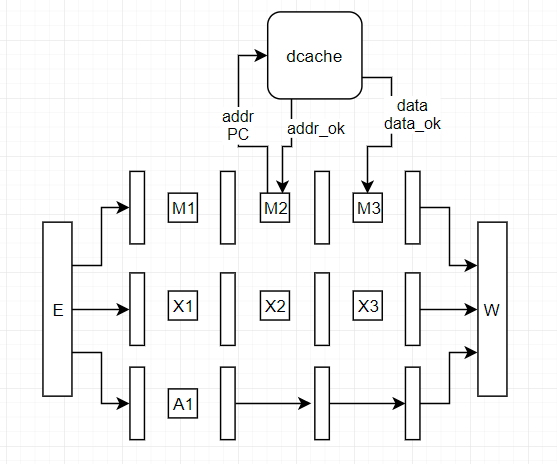
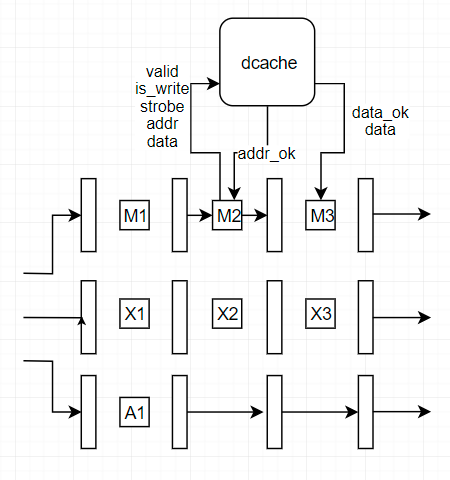
improve the interface

Changed region(s): [[0.0622, 0.0, 0.9644, 0.9655]]

diff --git a/docs/competition/CPU设计.md b/docs/competition/CPU设计.md
@@ -10,23 +10,23 @@
 
 ![CPU架构缩略图](资料图片/CPU架构缩略图.PNG)
 
-与Cache的交互只在取指和访存两个阶段。
+与Cache的交互只在取指和访存两个阶段。一下每个阶段都对应**时钟一个周期**
 
 1. 取指（1）：将计算好的PC发给ICache
 2. 取指（2）：获取ICache中的指令组和其它信息
 3. 译码：对指令进行译码，并对分支指令的地址进行计算
 4. 发射：往队列尾部插入指令组，在头部根据控制逻辑发射一条或两条指令
 5. 数据获取：通过寄存器堆和数据旁路获取数据
-6. 执行：用`FU`计算数据
-7. 访存（1）：向DCache发送访存请求，延迟取数据
-8. 访存（2）：获取DCache中的数据或其它信息，延迟计算
+6. 执行：在`FU`中计算数据
+7. 访存（1）：在`FU`中向DCache发送访存请求，延迟取数据
+8. 访存（2）：在`FU`获取DCache中的数据或其它信息，延迟计算
 9. 退休：将数据写回到寄存器堆
 
 
 
-### ==指令数据传输==
+### 指令数据传输
 
-- ICache传来的指令组要==8字节对齐==，也就是包含两条指令
+- ICache传来的指令组要8字节对齐，也就是包含两条指令
 - 接收到指令时，需要根据PC值来判断第一条指令是否有效，如果PC值只是4字节对齐而没有8字节对齐（如`bfc00004`），那么此时指令组第一条指令应该判定为无效
 - 当分支指令为8字节指令组的前四个字节的话（一条指令4个字节），此时延迟槽正好为后四个字节，不会出现问题，所以该指令组的分支预测正常进行
 - 当分支指令为指令组后四个字节的话，需要在下个周期把延迟槽取出来，也就是说该分支指令没有预测的必要，始终是顺序取，等到后面的延迟槽来了才应该真正开始分支预测
@@ -42,21 +42,22 @@
 - 取指分为两个阶段，第一个阶段向ICache发送地址，在第二个阶段接受指令，因为指令传来需要一定时间，所以只对传来的指令进行简单的处理和判断。
 - 第一个阶段发送的数据：指令地址PC、地址有效位`valid`
 - 以ICache返回的 `addr_ok` 作为是否接受到的标志，若未接收到，需继续发送数据，也就是把当前周期给stall（暂停）住，这个是用流水线控制逻辑实现的。
-- 根据当前的PC值，预测下一个PC值，并把是否是跳转指令、预测的分支指令类型、是否预测跳转以及跳转的地址传给后续的阶段来判断分支预测的正确性，并更新分支预测模块。
-- 第二个阶段传来的数据：指令组中的指令（==两条==）、指令组的有效位 `data_ok`、指令是否是分支指令`is_branch`（两位、需要ICache预解码）
-- 返回的指令组8字节对齐，包含两条指令
+- 根据当前的PC值，预测下一个PC值，并把是否是跳转指令、预测的分支指令类型、是否预测跳转以及跳转的地址传给后续的阶段来判断分支预测的正确性，以更新分支预测模块。
+- 第二个阶段传来的数据：指令组中的指令（两条）、指令组的有效位 `data_ok`、指令是否是分支指令`is_branch`（两位、需要ICache预解码）
+- ==同时当第二个阶段没有传来`data_ok`的话，且第二个阶段是有指令在等待请求返回的，也就是流水线寄存器中的`valid`为1（表明该阶段是有效的，而非`nop`之类的无效指令），此时需要stall住第二阶段来等待数据返回，由于第二阶段stall住了，所以如果第一阶段也是有效的地址请求即`valid`为1，此时也要跟着stall住。==
+- ==返回的指令组8字节对齐，包含两条指令，若PC请求仅为4字节对齐而不是8字节对齐，此时指令组第一条指令为无效指令，因为PC应该是从第二条指令开始取。==
 
 #### 译码
 
 - 判断指令的类型，以及源寄存器和目的寄存器的下标，放入到发射队列中
-- ==若分支指令取来了，但是延迟槽没有取来，则把分支指令的信息传给BB，等到延迟槽来的时候，把BB保存的分支指令的信息传给延迟槽。==
+- 若分支指令取来了，但是延迟槽没有取来，则把分支指令的信息传给BB，等到延迟槽来的时候，把BB保存的分支指令的信息传给延迟槽。
 
 #### 发射
 
-- ==两个写端口、两个读端口==的FIFO的双发循环队列，用head和tail下标的方式模拟循环队列。
+- 两个写端口、两个读端口的FIFO的双发循环队列，用head和tail下标的方式模拟循环队列。
 - 存放的数据：指令的地址、指令的各类操作数、是否为访存指令、是否为特权指令、是否为分支指令、是否预测跳转、预测跳转的地址
 - 以下不能同时发射两条指令的情况：
-- ==两条连续的除法指令：只有一个除法器（因为有两个乘法器，所以可以同时发射两条乘法指令，不过乘法器最好流水化）==
+- 两条连续的除法指令：只有一个除法器（因为有两个乘法器，所以可以同时发射两条乘法指令，不过乘法器最好流水化）
 - 访存指令：只有一个访存单元，而且DCache只有一个读写端口，没法同时处理两条访存指令
 - `CP0`、`TLB`等特权指令
 - 两条指令有数据相关：注意0号寄存器的假相关性（0号寄存器一直为零）
@@ -64,14 +65,14 @@
 
 #### 数据获取
 
-- 用两条指令的源寄存器下标获取源寄存器里的值，同时进行旁路（转发）从而获得所有的操作数，==因为可能会有延迟读操作，所以当前周期读到的可能无效，同时对于不可避免的指令相关需要暂停流水线。==
+- 用两条指令的源寄存器下标获取源寄存器里的值，同时进行旁路（转发）从而获得所有的操作数，因为可能会有延迟读操作，所以当前周期读到的可能无效，同时对于不可避免的指令相关需要暂停流水线。
 - 寄存器堆有四个读端口、两个写端口
 
 #### 执行和访存阶段
 
 ![FU架构缩略图](资料图片/FU架构缩略图.PNG)
 
-==一个`FU`包含执行一个阶段和访存两个阶段，总共三个阶段，其中访存指令需要三个周期，第一个周期计算访存地址，第二个周期发送请求，第三个周期接收请求；乘法指令也需要三个周期；一般的计算指令只需要一个周期。方便起见，这里我们把`FU`中的第一个阶段称为执行阶段，后两个阶段称为访存阶段，而实际上乘法指令的三个阶段都可以算作是执行阶段，普通计算指令只有第一个执行周期，后两个周期用作**延迟计算**==
+一个`FU`包含执行一个阶段和访存两个阶段，总共三个阶段，其中访存指令需要三个周期，第一个周期计算访存地址，第二个周期发送请求，第三个周期接收请求；乘法指令也需要三个周期；一般的计算指令只需要一个周期。方便起见，这里我们把`FU`中的第一个阶段称为执行阶段，后两个阶段称为访存阶段，而实际上乘法指令的三个阶段都可以算作是执行阶段，普通计算指令只有第一个执行周期，后两个周期用作**延迟计算**
 
 #### 执行
 
@@ -92,7 +93,7 @@
 - 访存第一阶段会发送的数据：地址有效位、是否为写请求、四位字节写使能、读写的地址、写入的数据
 - 访存第一阶段以 `Dache` 返回的 `addr_ok` 作为成功接收的标志
 - 第一阶段还会处理异常，并进行部分指令的延迟取数据
-- 访存第二阶段接受的信号：有效位 `data_ok` 和数据
+- 访存第二阶段接受的信号：有效位 `data_ok` 和数据，其中`data_ok`作为成功完成当前访存的信号
 - 第二阶段还会进行部分指令的延迟计算
 
 #### 退休
@@ -111,7 +112,7 @@
 >
 > MIPS处理器中用`JAL`、`BAL`等指令作为CALL指令，用`jr ra`作为Return指令
 
-#### ==预测==
+#### 预测
 
 - BIT、PHT、BTB、RAS均用BRAM（话说这玩意到底是个啥，有什么优劣吗，之后要写一下BRAM、LUTRAM之类的部件用途）实现，下述的`PC`索引位仅为示例，具体实现请参数化（~~方便挤牙膏~~）
 - BIT：在取指第一阶段根据当前指令的`PC[13:2]`索引是否是分支指令，同时还包含分支指令类型（是否是一定跳转的指令、是否是函数返回）的信息
@@ -138,8 +139,8 @@
 
 ### 权衡与选择
 
-1. ==BIT（Branch Instruction Table）部件的选择==：看过各种资料，分支预测这块的架构中好像都没有BIT这个部件，也就是直接判断一条指令是否是分支指令的部件。我们知道，分支预测是按照当前PC去预测下一个PC值，而且因为有大小的限制，不可能用PC的所有的位来索引，一定会有冲突，即不同的PC索引到同一个地方，而如果分支指令对应的PC和非分支指令对应的PC索引到同一个地方产生冲突的话，即每次非分支指令都会用到分支指令的预测结果，如果没有办法把它们区分开来，就会造成非分支指令，但是却预测跳转的错误。一般架构中好像是用BTB中tag比对后出现的miss（非分支指令一定会miss，所以只能顺序取，所以不会出现跳转的错误）来被动区分非分支指令和分支指令，这里我们打算主动区分，因为每个PC值只需要存放一位是否是分支指令的信息，所以可以存放很多。同时还可以存放分支指令类型的信息。
-2. ==分支与非分支指令的区分？==主动：BIT，需要的空间多。被动：在BTB中利用tag比对会出现的miss，时间花费多
+1. BIT（Branch Instruction Table）部件的选择：看过各种资料，分支预测这块的架构中好像都没有BIT这个部件，也就是直接判断一条指令是否是分支指令的部件。我们知道，分支预测是按照当前PC去预测下一个PC值，而且因为有大小的限制，不可能用PC的所有的位来索引，一定会有冲突，即不同的PC索引到同一个地方，而如果分支指令对应的PC和非分支指令对应的PC索引到同一个地方产生冲突的话，即每次非分支指令都会用到分支指令的预测结果，如果没有办法把它们区分开来，就会造成非分支指令，但是却预测跳转的错误。一般架构中好像是用BTB中tag比对后出现的miss（非分支指令一定会miss，所以只能顺序取，所以不会出现跳转的错误）来被动区分非分支指令和分支指令，这里我们打算主动区分，因为每个PC值只需要存放一位是否是分支指令的信息，所以可以存放很多。同时还可以存放分支指令类型的信息。
+2. 分支与非分支指令的区分？主动：BIT，需要的空间多。被动：在BTB中利用tag比对会出现的miss，时间花费多
 3. 取指时分支指令与延迟槽怎么处理？（1）ICache给的指令组中分支和延迟槽绑定，问题：分支和延迟槽不在同一个cache line（2）译码阶段若发现没有取到分支指令后的延迟槽，把分支的信息放在一个缓存中，等到下一周期取来了延迟槽再进行分支预测和正确性判断。目前我们采取的是方法（2）
 4. 发射阶段若第二条是分支指令则不发射的原因：当分支预测失败后需要清空之前的指令，如果延迟槽慢分支指令一个周期的话，则延迟槽需要执行，而和延迟槽同周期发射的另一条指令则不需要执行，但他们是在同一个周期发射的，处理起来比较麻烦。
 5. 针对分支指令（就是拿分支指令的PC来）进行分支预测：（1）因为一个指令组最多只有一条分支指令，所以不会出现需要多次预测的情况，可以直接用指令组对应的PC值（8字节对齐）来预测（2）虽然有可能不执行分支指令，而是直接执行分支指令后一条指令（即延迟槽）：比如说有一条分支指令跳转到延迟槽，这样用分支预测就不正确了，一个解决方法是存放指令组中分支指令的具体位置，但是可能性比较小，所以不进行特殊处理。

diff --git a/docs/competition/超标量处理器笔记.md b/docs/competition/超标量处理器笔记.md
@@ -100,7 +100,7 @@
 
 - PHT(Pattern History Table) 大小为2KB就有很高的准确率（93%）
 
-  ![PHT的大小对分支预测准确度的影响曲线](资料图片\PHT的大小对分支预测准确度的影响曲线.PNG)
+  ![PHT的大小对分支预测准确度的影响曲线](资料图片/PHT的大小对分支预测准确度的影响曲线.PNG)
 
 - 由于这种方法的正确率有一个极限值，很难达到98%以上的正确率，现代处理器不会直接使用这种方法。
 
@@ -251,7 +251,7 @@
 
 - CLZ指令的一种实现方式（在MIPS中允许所有的位为0）
 
-  ![CLZ指令的一种实现方式](资料图片\CLZ指令的一种实现方式.PNG)
+  ![CLZ指令的一种实现方式](资料图片/CLZ指令的一种实现方式.PNG)
 
 - AGU（Address Generate Unit）用来计算地址，在超标量处理器中由于并行处理的需要以及访存对处理器的性能的影响，单独用了一个FU来计算地址，同时进行分支检查
 
@@ -333,7 +333,7 @@
 - 本质上就是把BTB放到了ICache中，因为21264处理器每周期取出的四条指令在四字对齐的边界之内，所以每四条指令用一个line/way预测
 - 预测信息包含三个内容：（1）successor way：下个周期取出的fetch group在ICache中的way，（2）successor index：下个周期要取出的一组指令中在Cache line中的位置，需要先找到Cache line，然后再找其在Cache line中的位置。（3）branch position：本周期取出的指令组中，若存在预测跳转的分支指令，存储该指令下一条指令的位置，不存储分支指令的位置是因为：一、更容易找到本周期中哪些指令不该进入流水线；二、用00就可以表示出“本周期取出的指令都需要进入流水线”这个信息。
 
-![line,way-predicion的一个例子](资料图片\line,way-predicion的一个例子.PNG)
+![line,way-predicion的一个例子](资料图片/line,way-predicion的一个例子.PNG)
 
 - 可以用两位饱和计数器的方式来管理line/way的预测值
 - 同时也有三个问题：（1）很多Cache line没有分支指令，浪费分支指令的信息，而独立的BTB只会把预测结果是跳转的指令放在BTB中（2）Cache占用更多的资源（3）每当Cache line被替换，它包含的预测信息就消失了，而独立的BTB不会有这样的问题。
@@ -345,11 +345,11 @@
 
 - 基于全局历史的预测和局部历史的预测的冲突
 
-  ![Alpha处理器使用的分支预测](资料图片\Alpha处理器使用的分支预测.PNG)
+  ![Alpha处理器使用的分支预测](资料图片/Alpha处理器使用的分支预测.PNG)
 
 - 对于基于局部历史的分支预测方法，使用非推测（non-speculative）的方式更新；对于基于全局历史的分支预测方法，使用了推测的分式更新，所以GHR的状态可能不正确，所以需要用类似于Checkpoint的方法进行更新。
 
-  ![Alpha21264的GHR的状态恢复](资料图片\Alpha21264的GHR的状态恢复.PNG)
+  ![Alpha21264的GHR的状态恢复](资料图片/Alpha21264的GHR的状态恢复.PNG)
 
 ### 11.4 发射
 

diff --git a/docs/competition/龙芯杯资料汇总.md b/docs/competition/龙芯杯资料汇总.md
@@ -39,17 +39,18 @@
 
 ### ==器件名称表==
 
-| 缩写   | 全称                         | 意思           | 作用                             |
-| ------ | ---------------------------- | -------------- | -------------------------------- |
-| BIT    | Branch Instruction Table     | 分支指令表     | 用PC预测是否是分支指令           |
-| PHT    | Pattern History Table        | 跳转历史表     | 用以前的跳转记录来判断当前的跳转 |
-| BTB    | Branch Target Buffer         | 跳转地址缓存   | 预测跳转的地址                   |
-| RAS    | Return Address Stack         | 返回地址栈     | 充当函数调用和返回的硬件栈       |
-| ICache | Instruction Cache            | 指令Cache      | 缓存内存到CPU的指令              |
-| DCache | Data Cache                   | 数据Cache      | 缓存内存到CPU的数据              |
-| FU     | functional unit              | 计算单元       | 在执行阶段计算数据               |
-| CPU    | central processing unit      | 中央处理器     | 处理所有的指令                   |
-| TLB    | translation lookaside buffer | 转移后备缓冲区 | 缓存虚拟地址和其映射的物理地址   |
+| 缩写   | 全称                         | 意思           | 作用                                   |
+| ------ | ---------------------------- | -------------- | -------------------------------------- |
+| BIT    | Branch Instruction Table     | 分支指令表     | 用PC预测是否是分支指令                 |
+| BB     | Branch Buffer                | 分支暂存器     | 保存当前分支的信息，以等待延迟槽的取来 |
+| PHT    | Pattern History Table        | 跳转历史表     | 用以前的跳转记录来判断当前的跳转       |
+| BTB    | Branch Target Buffer         | 跳转地址缓存   | 预测跳转的地址                         |
+| RAS    | Return Address Stack         | 返回地址栈     | 充当函数调用和返回的硬件栈             |
+| ICache | Instruction Cache            | 指令Cache      | 缓存内存到CPU的指令                    |
+| DCache | Data Cache                   | 数据Cache      | 缓存内存到CPU的数据                    |
+| FU     | functional unit              | 计算单元       | 在执行阶段计算数据                     |
+| CPU    | central processing unit      | 中央处理器     | 处理所有的指令                         |
+| TLB    | translation lookaside buffer | 转移后备缓冲区 | 缓存虚拟地址和其映射的物理地址         |
 
 <br>
 
